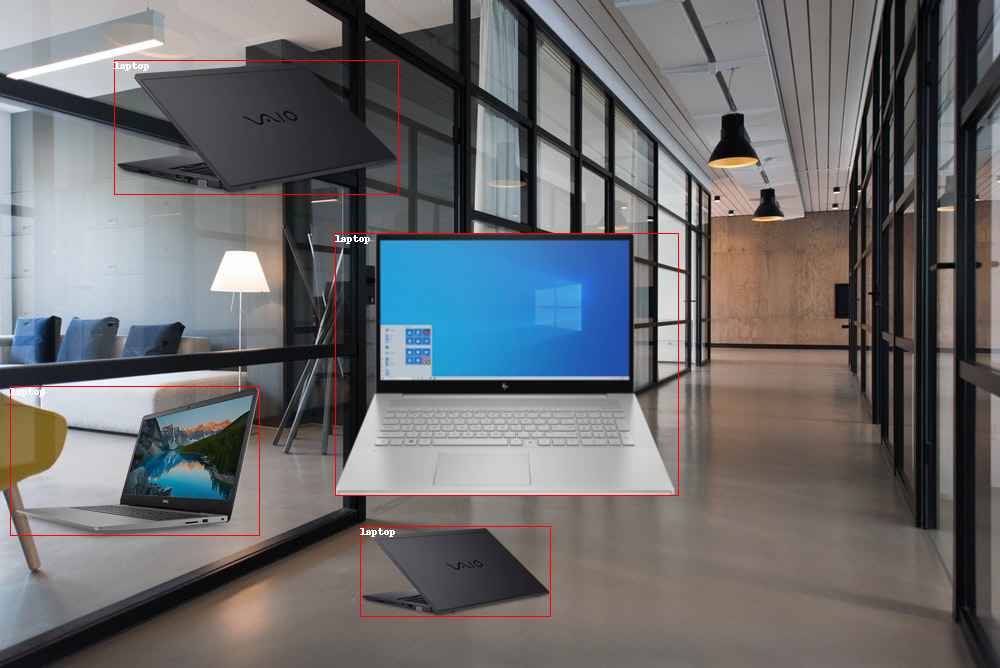
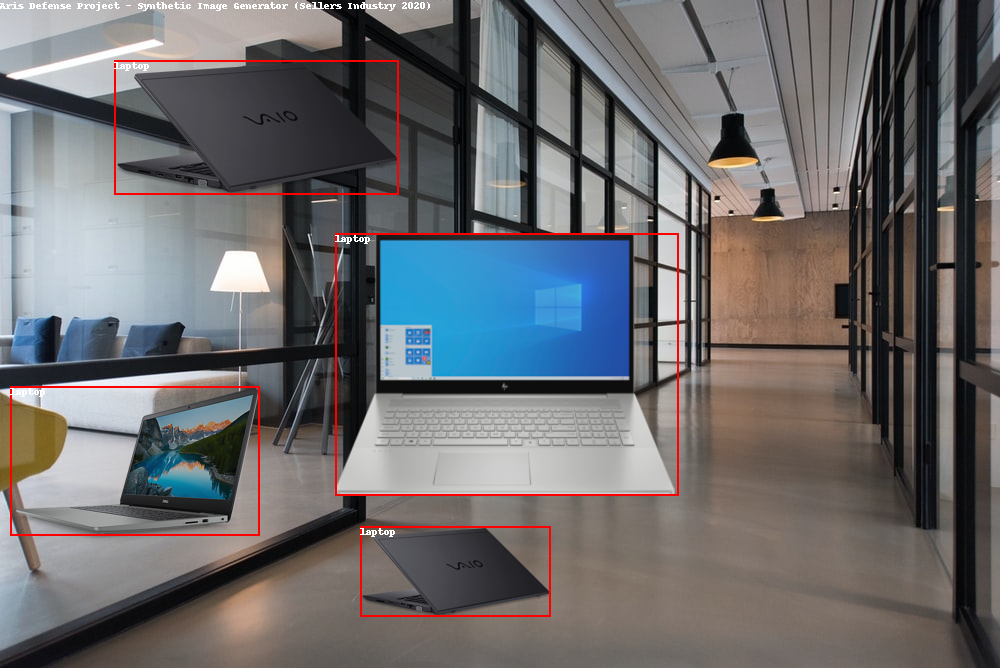
floating integer bug fix
- fixed bug with integer and random numbers
- updated line with to be based on image width

Changed region(s): [[0.0, 0.0, 0.434, 0.0299]]

diff --git a/preview.py b/preview.py
@@ -1,19 +1,16 @@
 # Sellers Industry 2020
-# Aris Defense Project - Sythetic Image Generator
+# Aris Defense Project - Synthetic Image Generator
 
 import os
 import xml.etree.ElementTree as ET
 import xmltodict, json
 from PIL import Image, ImageFont, ImageDraw, ImageEnhance
 
-
-
 directory = os.path.join( os.getcwd(), "output" );
 images_dir = os.path.join( directory, "images" );
 annotations_dir = os.path.join( directory, "annotations" );
 output_dir = os.path.join( directory, "preview" );
 outlineColor = "red"
-
 
 for annotation in os.listdir( annotations_dir ):
     file = json.loads( json.dumps( xmltodict.parse( ET.tostring( ET.parse( os.path.join( annotations_dir, annotation ) ).getroot() ) ) ) )[ "annotation" ];
@@ -28,8 +25,8 @@ for annotation in os.listdir( annotations_dir ):
 
     for bounding in range( 0, len( bbox ) ):
         draw = ImageDraw.Draw(source_img)
-        draw.rectangle( ( int( bbox[ bounding ][ "bndbox" ][ "xmin" ] ), int( bbox[ bounding ][ "bndbox" ][ "ymin" ] ), int( bbox[ bounding ][ "bndbox" ][ "xmax" ] ), int( bbox[ bounding ][ "bndbox" ][ "ymax" ] ) ), outline=outlineColor)
+        draw.rectangle( ( int( bbox[ bounding ][ "bndbox" ][ "xmin" ] ), int( bbox[ bounding ][ "bndbox" ][ "ymin" ] ), int( bbox[ bounding ][ "bndbox" ][ "xmax" ] ), int( bbox[ bounding ][ "bndbox" ][ "ymax" ] ) ), outline=outlineColor, width=max( int( source_img.size[ 0 ] / 500 ), 1 ) )
         draw.text((int( bbox[ bounding ][ "bndbox" ][ "xmin" ] ), int( bbox[ bounding ][ "bndbox" ][ "ymin" ] )), bbox[ bounding ][ "name" ] )
 
-
+    draw.text( ( 0, 0 ), "Aris Defense Project - Synthetic Image Generator (Sellers Industry 2020)" )
     source_img.save( os.path.join( output_dir, file[ "filename" ] ), "PNG" );

diff --git a/index.py b/index.py
@@ -1,5 +1,5 @@
 # Sellers Industry 2020
-# Aris Defense Project - Sythetic Image Generator
+# Aris Defense Project - Synthetic Image Generator
 
 import os
 import PIL
@@ -93,7 +93,7 @@ for background_img in os.listdir( bg_dir ):
                         if config[ "flip_ver" ] and random.randint( 0,1 ) == 1:
                             foreground = foreground.transpose(PIL.Image.FLIP_TOP_BOTTOM)
 
-                        width = random.randint( background.size[ 0 ] * config[ "scale_min" ], background.size[ 0 ] * config[ "scale_max" ] )
+                        width = random.randint( int( background.size[ 0 ] * config[ "scale_min" ] ), int( background.size[ 0 ] * config[ "scale_max" ] ) )
                         height = int( ( width / foreground.size[ 0 ] ) * foreground.size[ 1 ] )
                         x = random.randint( 0, background.size[ 0 ] - width )
                         y = random.randint( 0, background.size[ 1 ] - height )

diff --git a/readme.md b/readme.md
@@ -1,4 +1,4 @@
-# Synthetic Dataset Creator
+# Synthetic Dataset Creator (Aris Defense Project)
 **Created by Sellers Industry 2020**
 
 This project was created to help create a synthetic  dataset for the Aris Defense Weapon Detection System. This sythetic dataset creator will take images with no background and place many ontop background images. You can use either JPG or PNG for the background images. However, the object classes must be PNG, if you want them to be placed properly. You also need these images to have no background. Using object images with background have not purpose. There are a bunch of config options placed in python file, these help config how you want to create each image.
@@ -28,6 +28,7 @@ By default it will grab from the `output` directory. So you must make a folder c
 
 ### Updates
 - **(8/18/20)** Added preview feature allowing you to draw bounding boxes over annotations that were generated
+- **(8/18/20)** Fixed integer random failor point
 
 ### Fix Code
 - Very messy code, needs cleaned up
